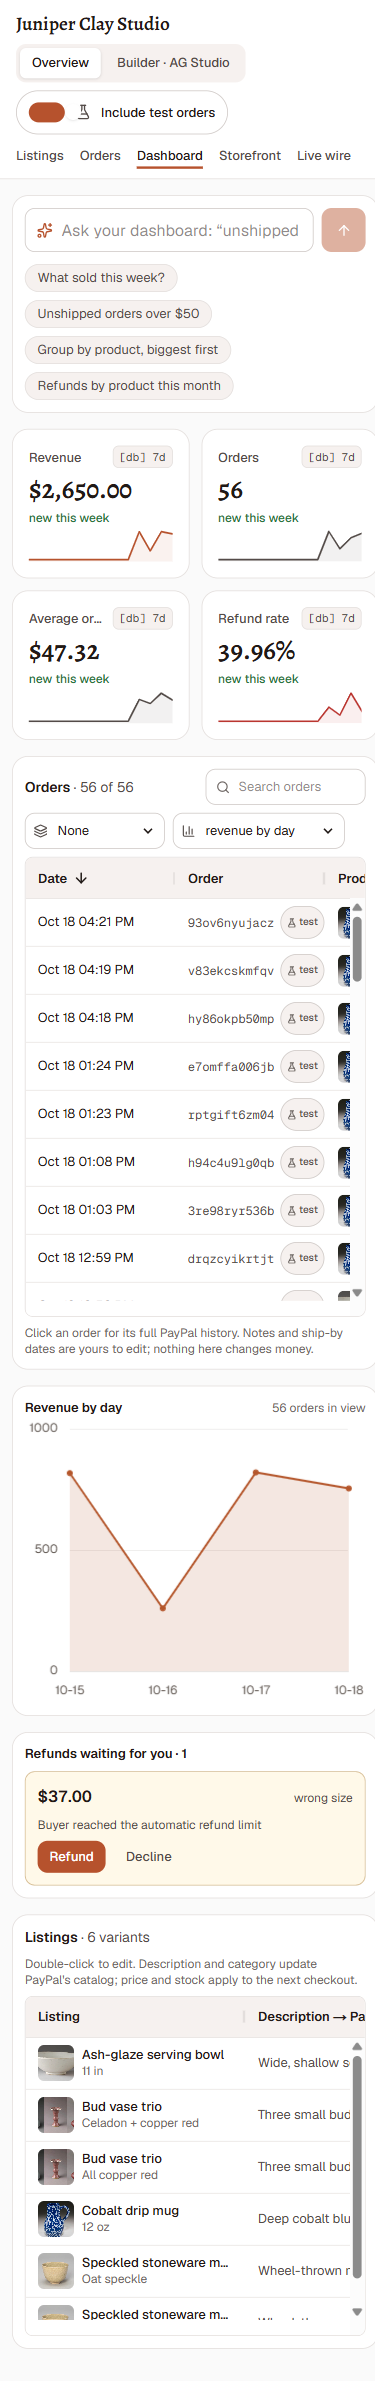
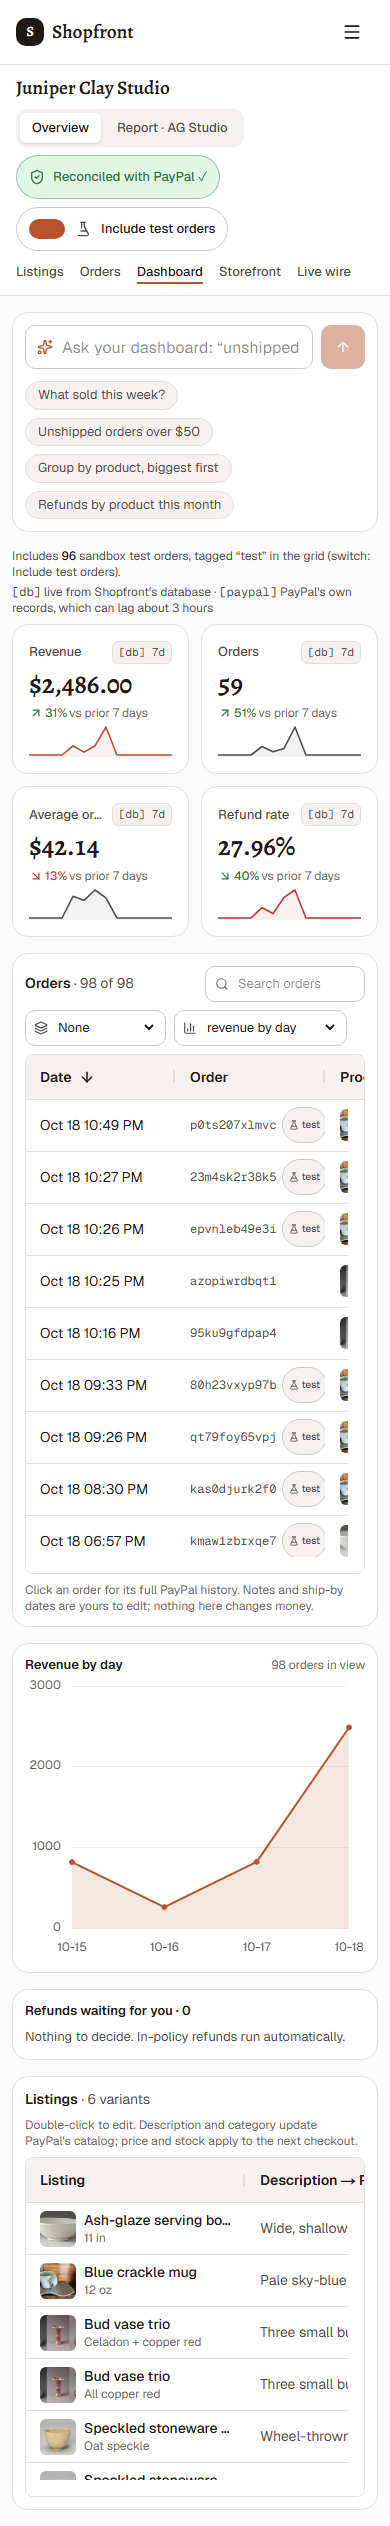
docs(ag): Phase AG passes 16/16 on Render; progress report, screenshots, fix #4/#5 status, AT list

Changed region(s): [[0.0293, 0.0, 0.9973, 0.9945], [0.968, 0.7459, 0.9973, 0.777]]

diff --git a/docs/PROGRESS.md b/docs/PROGRESS.md
@@ -203,3 +203,10 @@ One 5-line report per item: done, tests, screenshots, risks, next. Newest last.
   - the "what changed" strip (fix #5); the overview width (fix #4);
   - AT-AG.
 - **Next (on resume):** build the preset and widgets in `components/dashboard/`, then AT-AG. Then review fixes #3 and #7, Gauntlet, proof docs, the Nov 4–5 regression (including phase6 #6 on a local replay server), DEMO-SCRIPT, review v3 pack.
+
+## Phase AG: AG Studio showcase delivered (2026-10-24, D-100, D-101)
+- **Done:** a 5-page Studio report (Overview · Orders · Payments & reconciliation · Inventory · Agents & Cart API) on six joined sources with a calendar and two measures; two new custom widgets (PayPal reconciliation, Cart API funnel); the read-only **Shop Manager** agent (no tool can move money); review fixes #5 (a "what changed" strip tagged AI, with Undo; AI tags on the overview's chips) and #4 (overview up to 1760 px, larger grid type). The AG key is Studio-only and expires 29 Nov; without a valid key Studio is never mounted and the tab shows the Community overview with a notice.
+- **Tests:** `ag-checks` 16/16 on Render (L1–L3, P1–P5, A1–A6, C1–C2) + L4 on a local build without the key; every Shop Manager figure re-checked against the tools; reconcile PASS. Regression: `dashboard-checks` G0, G4, G5, G6 pass; unit tests 195.
+- **Screenshots:** `docs/screenshots/ag/` (every page, the Shop Manager, the change strip, the expired/missing-key fallback) at desktop, 1920 and mobile.
+- **Risks:** the Studio trial ends 29 Nov (owner asks for the extension on Nov 25); Studio's grid shows money with one decimal ("$33.0"); on a phone the report scrolls inside its box (the Overview tab is the phone view).
+- **Next:** review fixes #3 (landing) and #7 (Telegram), then the Gauntlet.

diff --git a/docs/review-pack/FEEDBACK-V2.md b/docs/review-pack/FEEDBACK-V2.md
@@ -39,6 +39,6 @@ Ranked by what a judge meets first and how much it costs. 👁 = a judge sees it
 | 2 | /shop image and search accuracy | **Done 2026-10-18** (`review2-checks` R2a–R2c: weighted search with a relevance cut; the mug listing renamed "Blue crackle mug" to match a real CC0 mug photo) |
 | 6 | Get paid onboarding clarity | **Done 2026-10-18** (R6 + `connect-checks` C2) |
 | 8 | /shop live panel balance | **Done 2026-10-18** (R8: a 4-lane guide while the wire is quiet) |
-| 4, 5 | Dashboard width, AI change made visible | Folded into Phase AG (D-097) |
+| 4, 5 | Dashboard width, AI change made visible | **Done 2026-10-24** in Phase AG (D-101): `ag-checks` C1–C2 (strip tagged AI, Undo), `dashboard-checks` G0/G4/G6 (width, banner, Undo target) |
 | 3, 7 | Landing prominence, Telegram polish | Scheduled Oct 29 |
 

diff --git a/docs/HANDOFF.md b/docs/HANDOFF.md
@@ -215,6 +215,7 @@
 - `telegram-flow-checks`, `connect-checks`, `final-screens`;
 - plus the older `phase2/4/5/6/9-checks`, `recovery-checks`, `telegram-checks`, `fixes-checks`, `lane-checks`;
 - `cart-checks` (AT-C, K1–K14), `cart-agent` (PayPal's Cart API client as a buyer agent), `spike-c`;
+- `ag-checks` (AT-AG: L1–L3 licence, P1–P5 report pages, A1–A6 Shop Manager, C1–C2 change strip; `--expect-no-key` runs L4 against a local build made with `NEXT_PUBLIC_AG_LICENSE_KEY=` empty);
 - `reconcile-checks` (the badge) and `reconcile` (the bare check). Every suite above also ends with `reconcile --settle` by itself (the preload, D-095); `AT_RECONCILE=0` skips it.
 
 **Habits from this run:**
